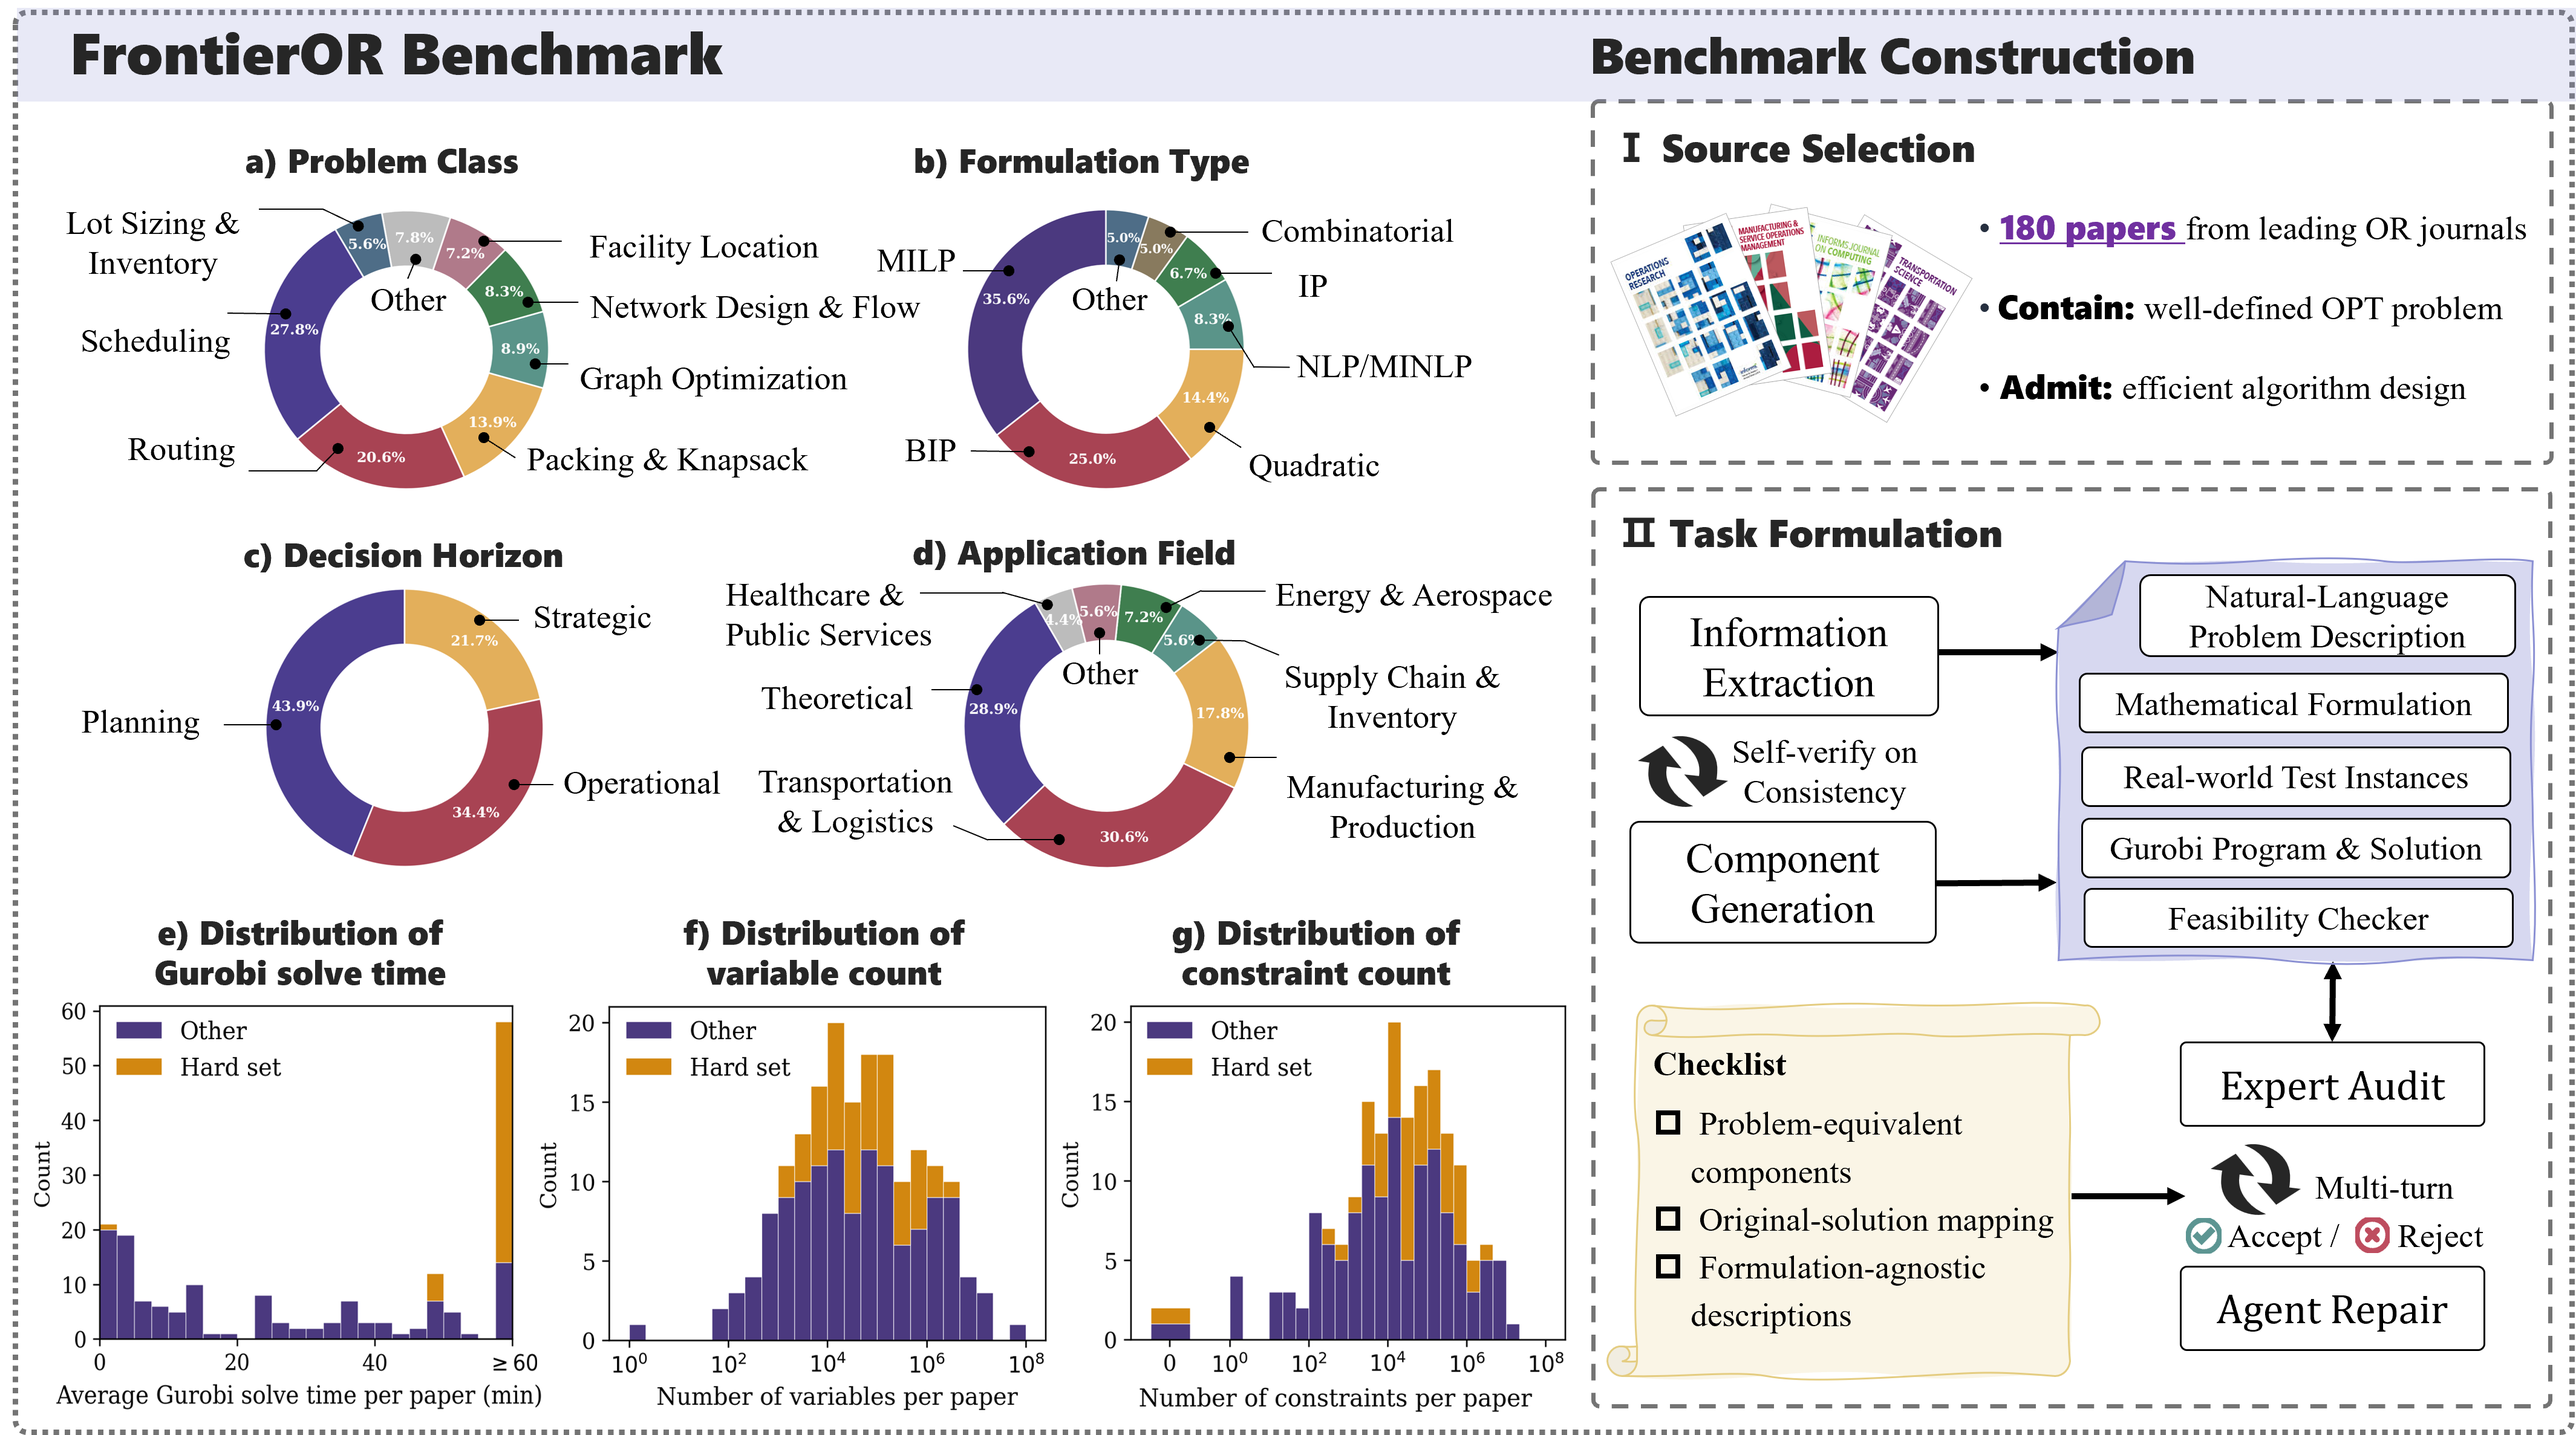
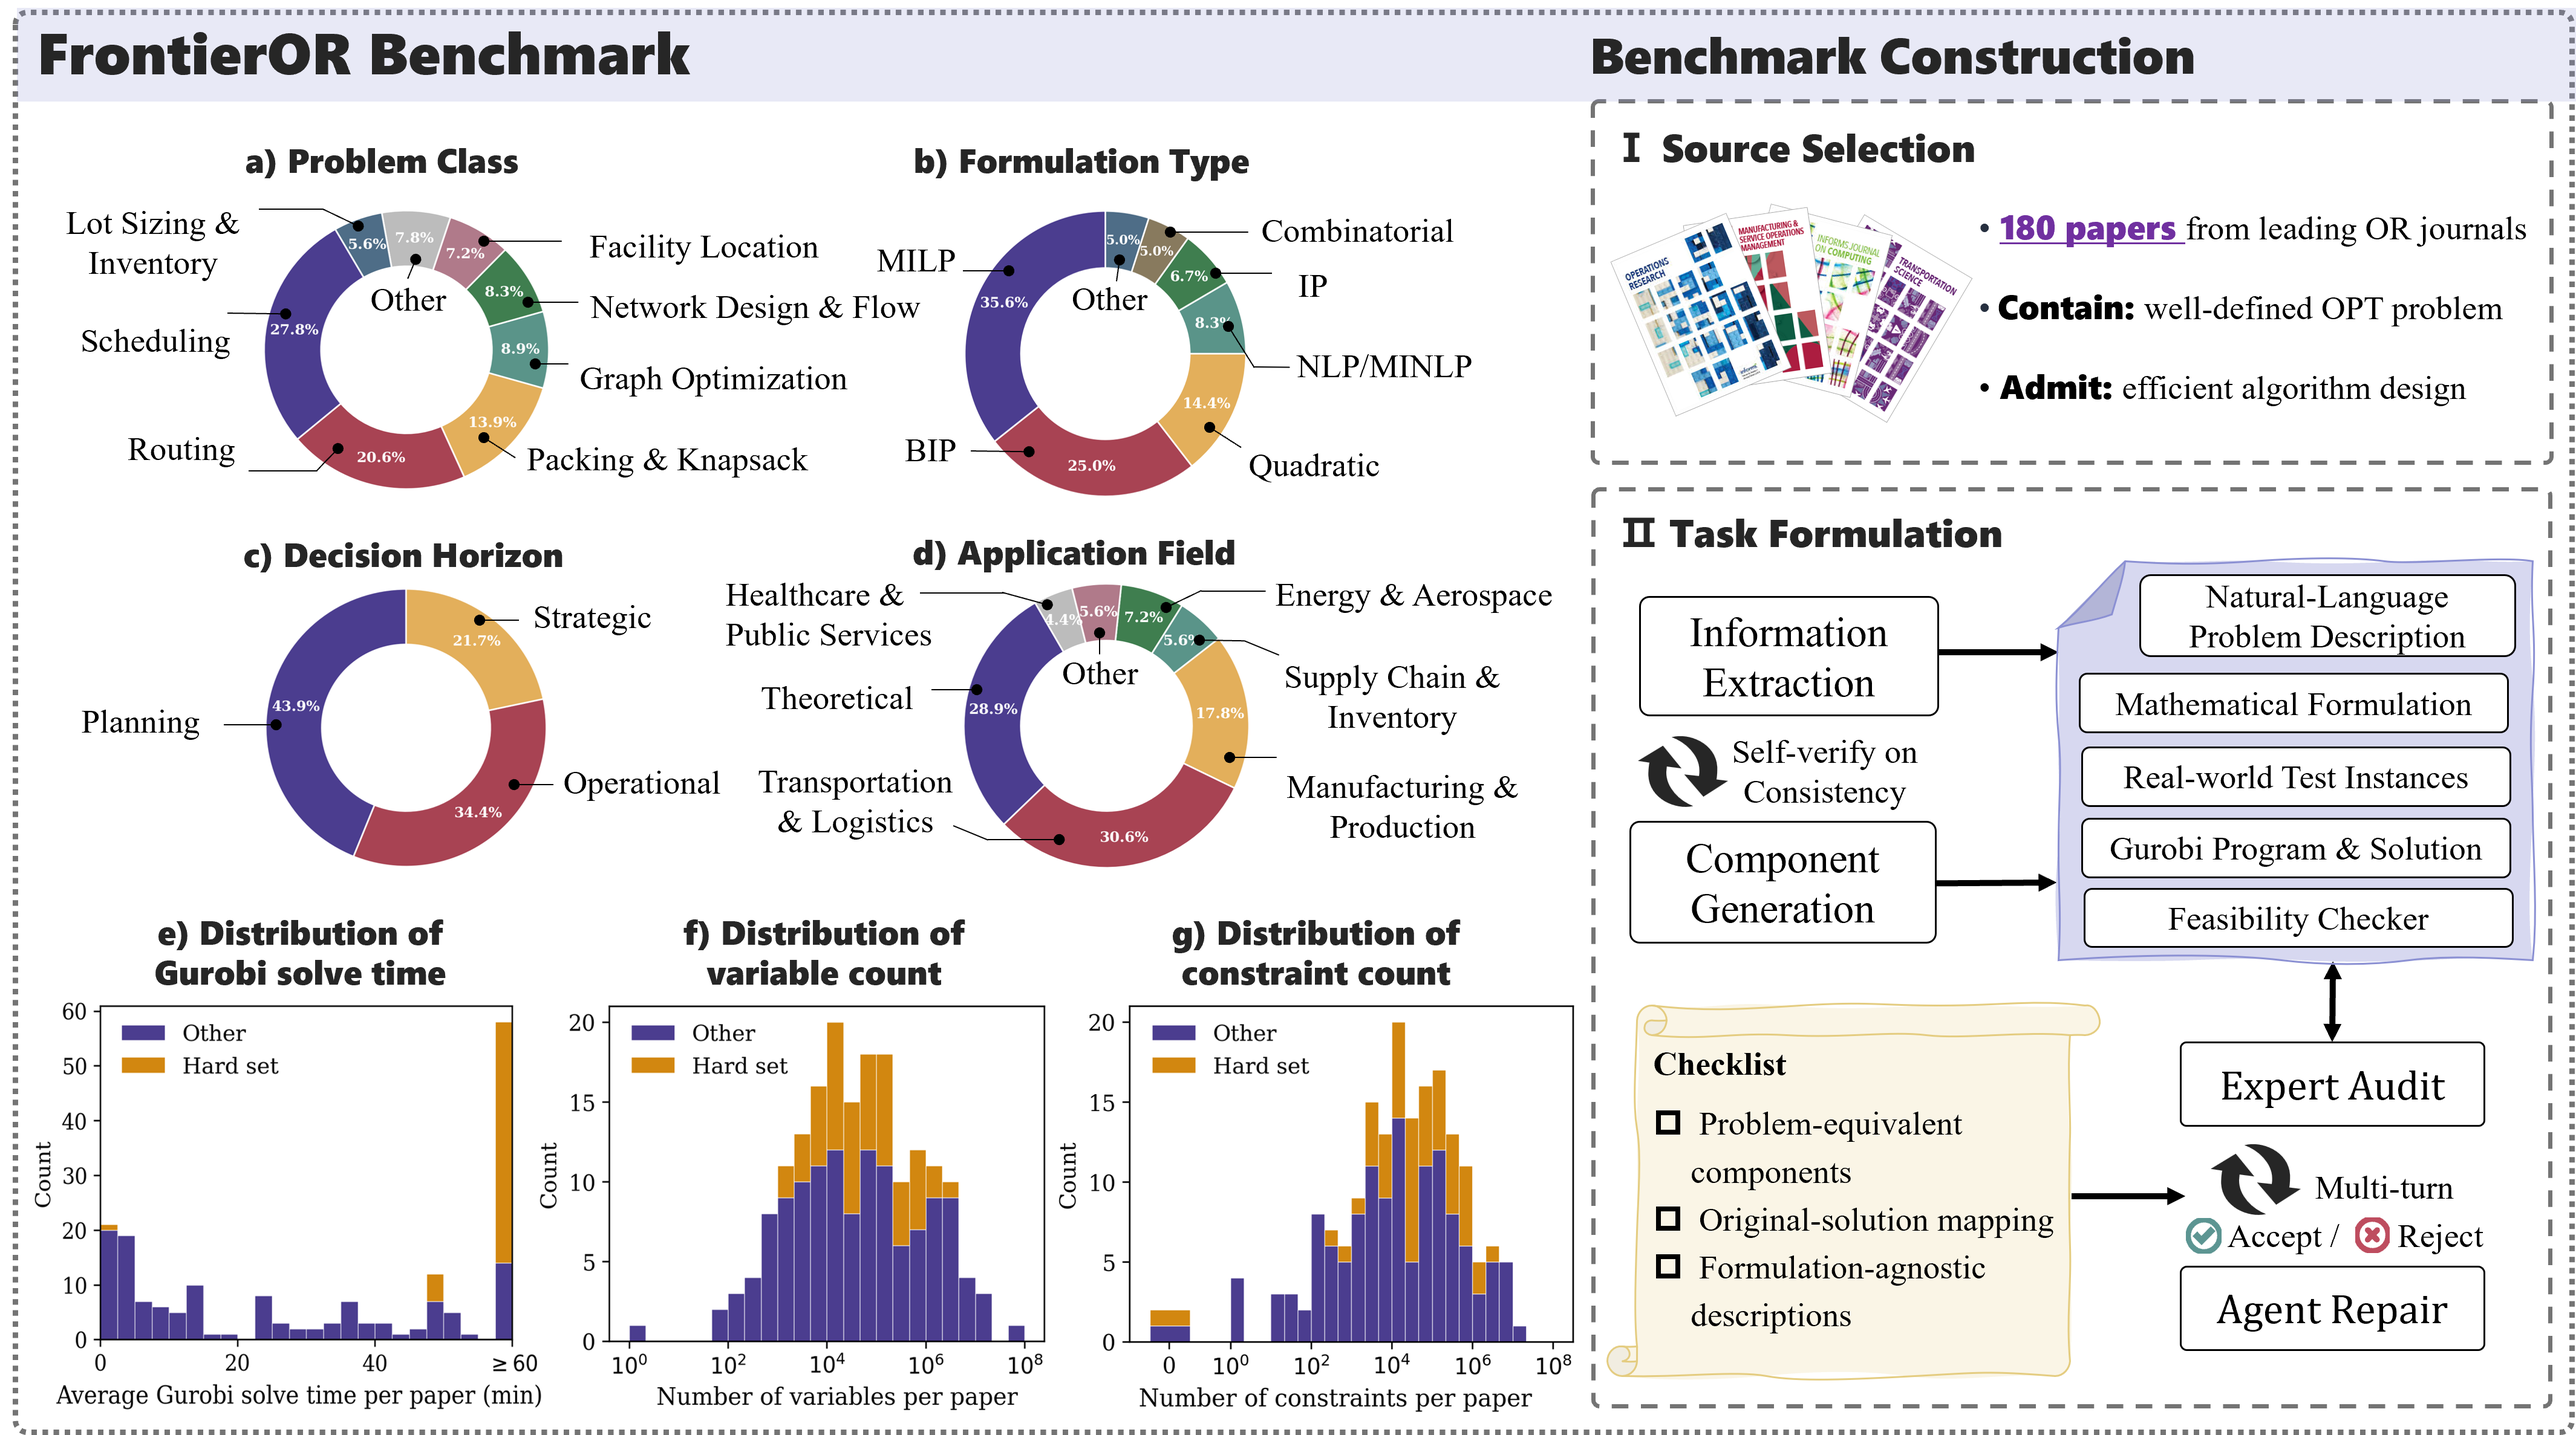
Refresh benchmark overview figure and cache key

diff --git a/README.md b/README.md
@@ -19,7 +19,7 @@
 </div>
 
 <p align="center">
-  <img src="figures/FrontierOR.png?v=44ade67effb4" alt="FrontierOR overview" width="100%">
+  <img src="figures/FrontierOR.png?v=936f02387ed3" alt="FrontierOR overview" width="100%">
 </p>
 
 > Overview of FrontierOR: 180 literature-grounded OR tasks spanning diverse domains and formulations, with 10² to 10⁷ decision variables/constraints and Gurobi failing to reach optimality on **46%** of large-scale instances within one hour.
